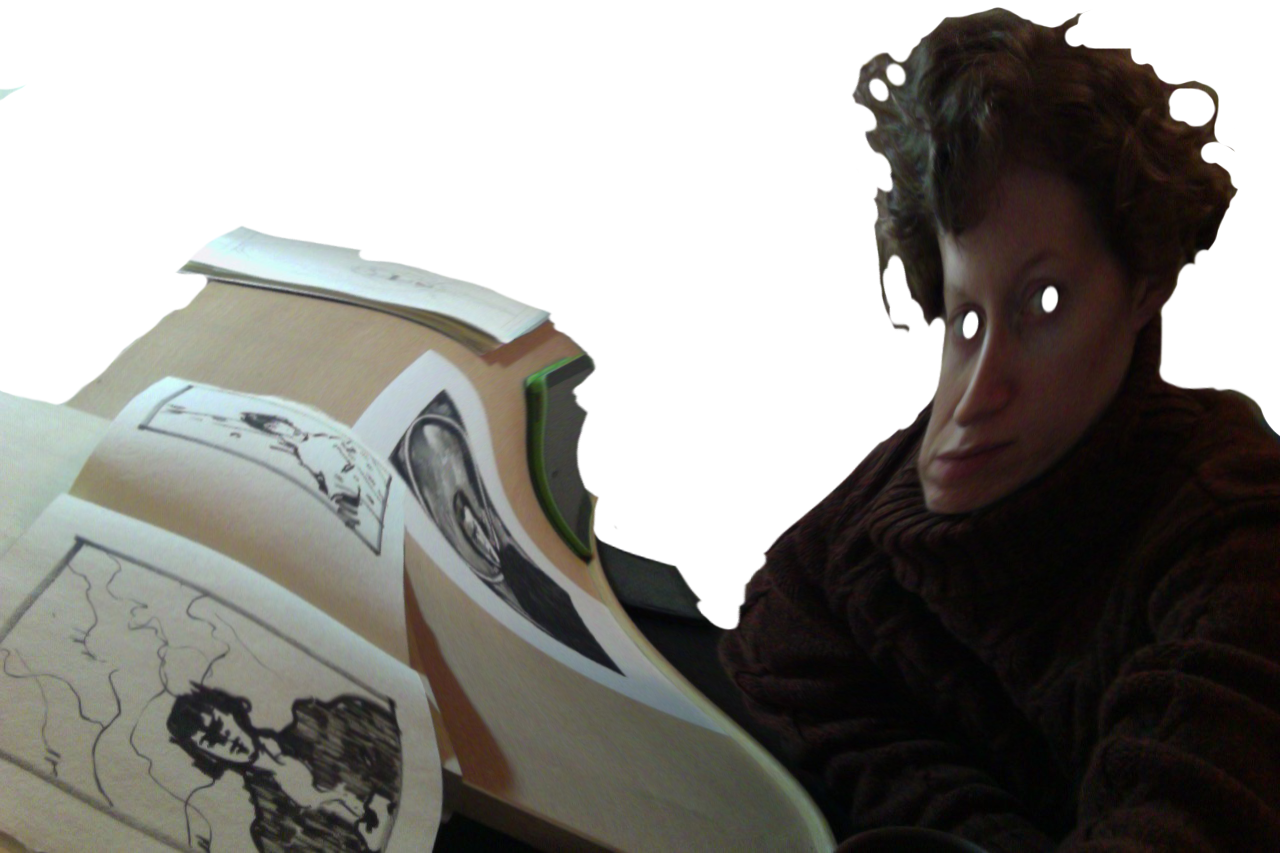
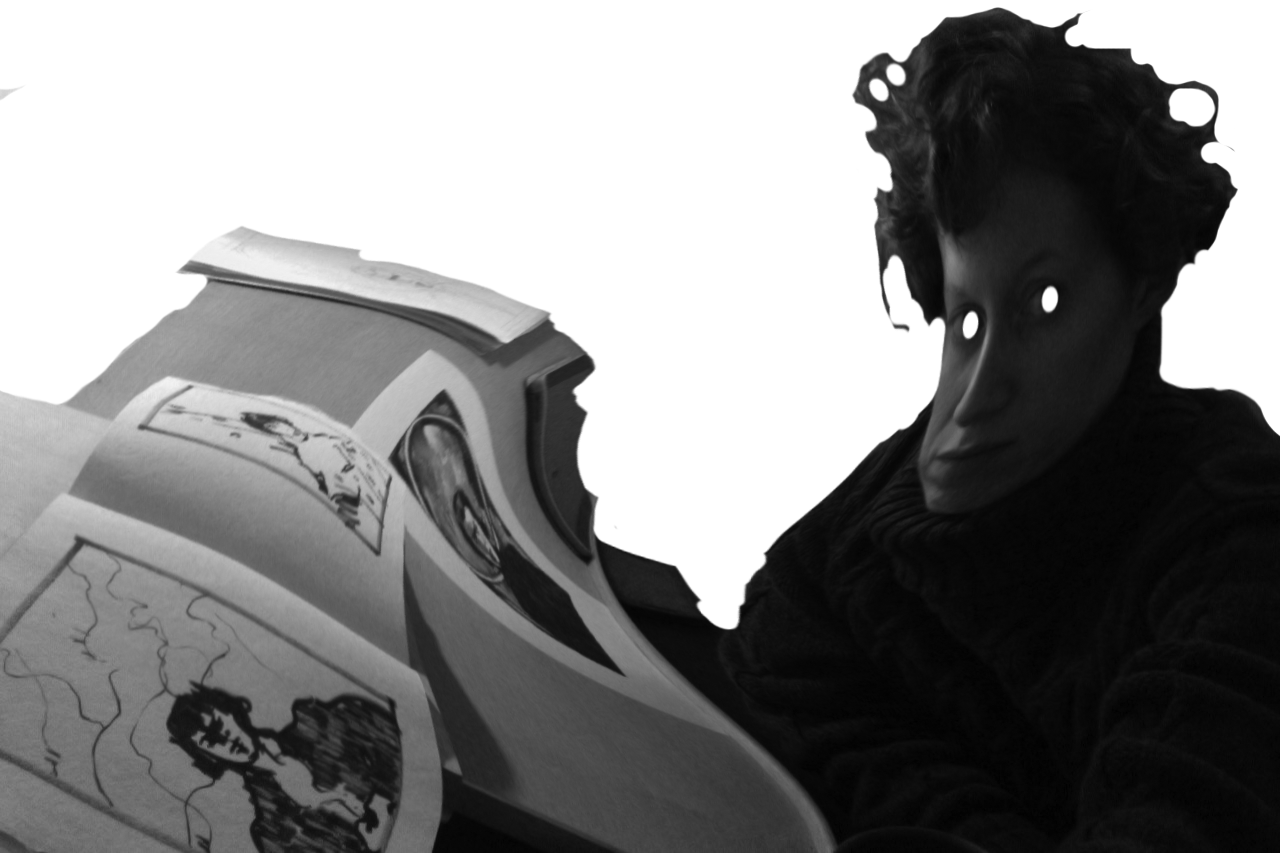
grayscaled animation

diff --git a/sketch.js b/sketch.js
@@ -6,7 +6,8 @@ function preload() {
 }
 
 function setup() {
-	createCanvas(windowWidth, windowHeight);
+	createCanvas(1280, 853);
+	background(100);
 }
 
 function draw() {
